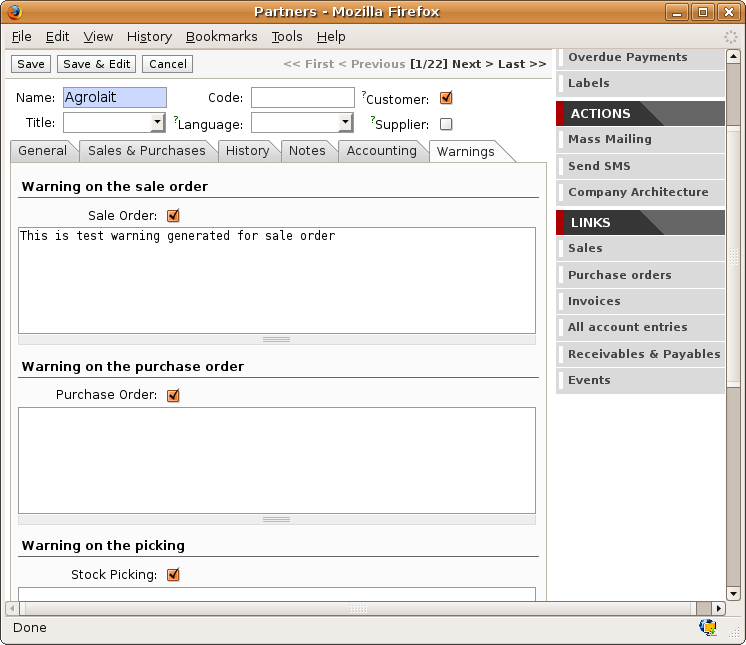
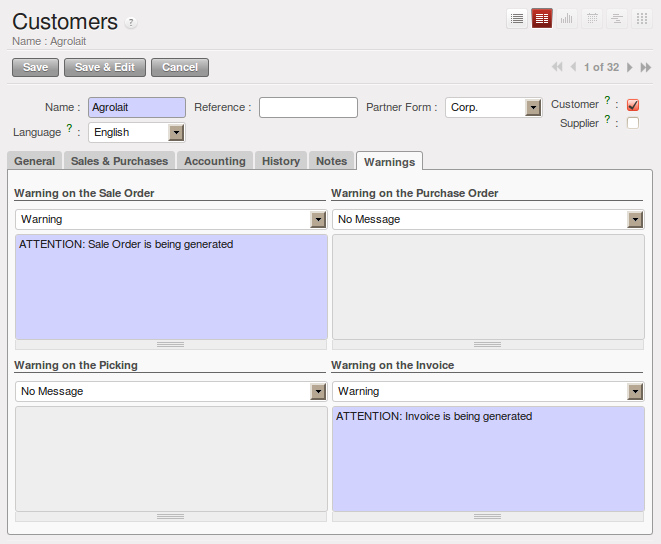
[IMP]: Manage your Business > Driving your Sales > Alerts

diff --git a/6/6_16_Sales/6_16_Sales_alerts.rst b/6/6_16_Sales/6_16_Sales_alerts.rst
@@ -1,6 +1,6 @@
 
-Management of Alerts
-====================
+Alerts
+======
 
 .. index:: 
    single: warning
@@ -22,6 +22,12 @@ setting parameters in the new :guilabel:`Warnings` tab on each of the forms.
    :align: center
 
    *Management of alerts on products*
+
+You can select any one of the following types of warnings:
+
+* :guilabel:`Warning`: This option will notify user with the message
+
+* :guilabel:`Blocking Message`: This will throw an exception with the message and block the flow
 
 You can activate alerts for a series of events. For each alert you should enter a message that will
 be attached to the person setting off the event. The different available events on the partner form
